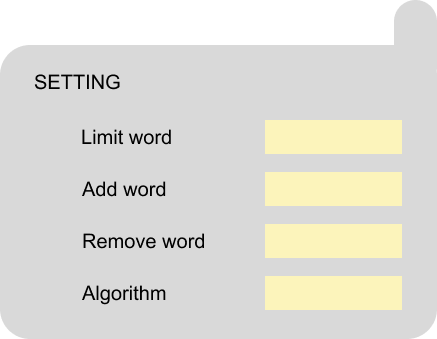
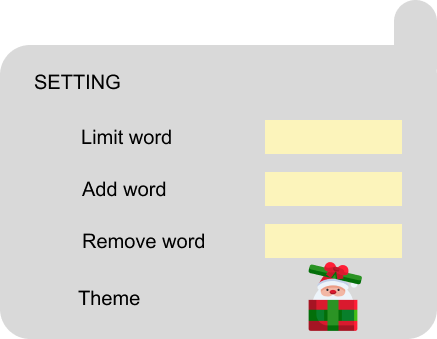
Add theme to app

Changed region(s): [[0.595, 0.767, 0.9222, 1.0], [0.1785, 0.826, 0.3867, 0.9145]]

diff --git a/src/view/SettingTab.cpp b/src/view/SettingTab.cpp
@@ -5,13 +5,11 @@ SettingTab::SettingTab(double x, double y, double sizeOfButton)
       limitWordField(new TextField(x - 118, y + 188)),
       addWordField(new TextField(x - 118, y + 188 + 52)),
       removeWordField(new TextField(x - 118, y + 188 + 52 * 2)),
-      algorithmDropdown(new DropdownBox(x - 118, y + 188 + 52 * 3, {"Trie", "DAWG"})),  // Initialize the dropdown
-      currentAlgorithm(AlgorithmType::Trie)
+      theme(new Theme("./../assets/img/theme.png", sf::Vector2f(x - 118 + 50, y + 188 + 52 * 3), sf::Vector2f(50.f, 50.f)))
 {
     position = sf::Vector2f(x - 379, y + 68);
 
     button->setIsHide(true);
-    algorithmDropdown->setIsHide(true);
 
     isHide = true;
 
@@ -25,15 +23,6 @@ SettingTab::SettingTab(double x, double y, double sizeOfButton)
     button->setCallback([&]() -> void {
         std::cout << "Button of setting tab is pressed\n";
         isHide = !isHide;
-        algorithmDropdown->isHide = !algorithmDropdown->isHide;
-    });
-
-    algorithmDropdown->setCallback([&](const std::string& selected) -> void {
-        if (selected == "Trie") {
-            switchAlgorithm(AlgorithmType::Trie);
-        } else if (selected == "DAWG") {
-            switchAlgorithm(AlgorithmType::DAWG);
-        }
     });
 
     limitWordField->loadTextureFromFile("./../assets/img/text-box.png");
@@ -48,8 +37,8 @@ SettingTab::~SettingTab()
 {
     delete button;
     button = nullptr;
-    delete algorithmDropdown;
-    algorithmDropdown = nullptr;
+    delete theme;
+    theme = nullptr;
     delete limitWordField;
     limitWordField = nullptr;
     delete addWordField;
@@ -60,18 +49,18 @@ SettingTab::~SettingTab()
 
 void SettingTab::render(sf::RenderWindow &window) {
     button->render(window);
+    theme->render(window);
     if (!isHide) {
         window.draw(sprite);
         limitWordField->render(window);
         addWordField->render(window);
         removeWordField->render(window);
-        algorithmDropdown->render(window);
     }
 }
 
-void SettingTab::handleEvent(const sf::Event& event, Trie* &trie) {
+void SettingTab::handleEvent(const sf::Event& event, CompressedTrie* &trie) {
     button->handleEvent(event);
-    algorithmDropdown->handleEvent(event);
+    theme->handleEvent(event);
     limitWordField->handleEvent(event);
     addWordField->handleEvent(event);
     removeWordField->handleEvent(event);
@@ -85,7 +74,7 @@ void SettingTab::handleEvent(const sf::Event& event, Trie* &trie) {
             try {
                 int limit = std::stoi(limitWordText);
                 std::cout << "Set limit to " << limit << "\n";
-                trie->setLimit(limit);
+                trie->setLimitWord(limit);
                 limitWordField->setText(limitWordText);
                 limitWordField->userInput.clear();
             } catch (...) {
@@ -114,14 +103,4 @@ void SettingTab::update()
     limitWordField->update();
     addWordField->update();
     removeWordField->update();
-}
-
-void SettingTab::switchAlgorithm(AlgorithmType algorithm) {
-    currentAlgorithm = algorithm;
-    if (algorithm == AlgorithmType::Trie) {
-        std::cout << "Switched to Trie\n";
-    } else if (algorithm == AlgorithmType::DAWG) {
-        std::cout << "Switched to DAWG\n";
-    }
-    // Add more algorithms here if needed
 }

diff --git a/src/view/SettingTab.hpp b/src/view/SettingTab.hpp
@@ -5,19 +5,15 @@
 #include "Button.hpp"
 #include "TextField.hpp"
 #include "DropdownBox.hpp"
-#include "./../model/trie.hpp"
-
-enum class AlgorithmType {
-    Trie,
-    DAWG
-};
+#include "Theme.hpp"
+#include "./../model/CompressedTrie.hpp"
 
 class SettingTab : public Base {
 public:
     SettingTab(double x, double y, double sizeOfButton);
     ~SettingTab();
     void render(sf::RenderWindow& window) override;
-    void handleEvent(const sf::Event& event, Trie* &trie);
+    void handleEvent(const sf::Event& event, CompressedTrie* &trie);
     void update();
 
 private:
@@ -25,10 +21,7 @@ private:
     TextField *limitWordField;
     TextField *addWordField;
     TextField *removeWordField;
-    DropdownBox *algorithmDropdown;
-    AlgorithmType currentAlgorithm;
-
-    void switchAlgorithm(AlgorithmType algorithm);
+    Theme *theme;
 };
 
 #endif // SETTING_TAB_HPP

diff --git a/src/view/Theme.cpp b/src/view/Theme.cpp
@@ -1,0 +1,28 @@
+#include "Theme.hpp"
+
+Theme::Theme(const std::string& filePath, const sf::Vector2f& buttonPosition, const sf::Vector2f& buttonSize)
+    : button(new Button(buttonPosition, buttonSize, "Toggle Theme")), displayed(false) {
+    if (!texture.loadFromFile(filePath)) {
+        throw std::runtime_error("Failed to load theme image");
+    }
+    sprite.setTexture(texture);
+    button->setCallback([this]() { toggleDisplay(); });
+    button->setIsHide(true);
+}
+
+Theme::~Theme() {}
+
+void Theme::render(sf::RenderWindow& window) {
+    if (displayed) {
+        window.draw(sprite);
+    }
+    button->render(window);
+}
+
+void Theme::handleEvent(const sf::Event& event) {
+    button->handleEvent(event);
+}
+
+void Theme::toggleDisplay() {
+    displayed = !displayed;
+}

diff --git a/src/view/Theme.hpp b/src/view/Theme.hpp
@@ -1,0 +1,22 @@
+#ifndef THEME_HPP
+#define THEME_HPP
+
+#include <SFML/Graphics.hpp>
+#include "Button.hpp"
+
+class Theme {
+public:
+    Theme(const std::string& filePath, const sf::Vector2f& buttonPosition, const sf::Vector2f& buttonSize);
+    ~Theme();
+    void render(sf::RenderWindow& window);
+    void handleEvent(const sf::Event& event);
+    void toggleDisplay();
+
+private:
+    sf::Texture texture;
+    sf::Sprite sprite;
+    Button *button;
+    bool displayed;
+};
+
+#endif
